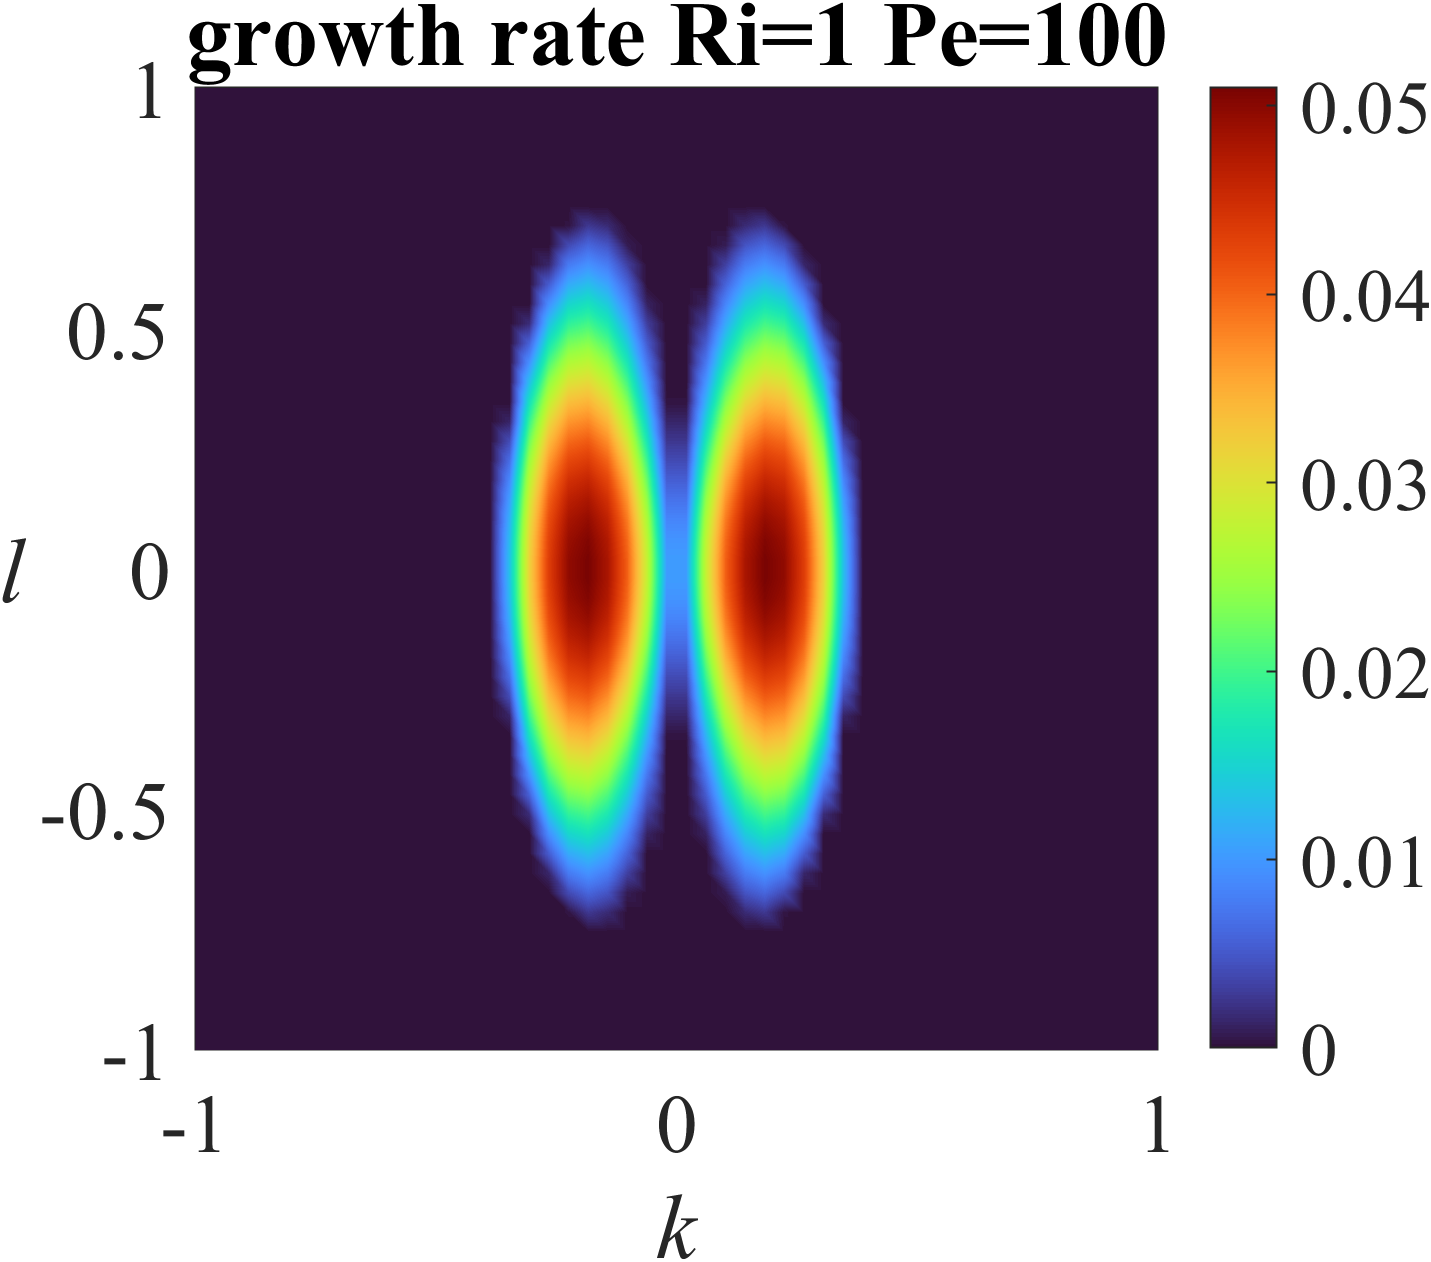
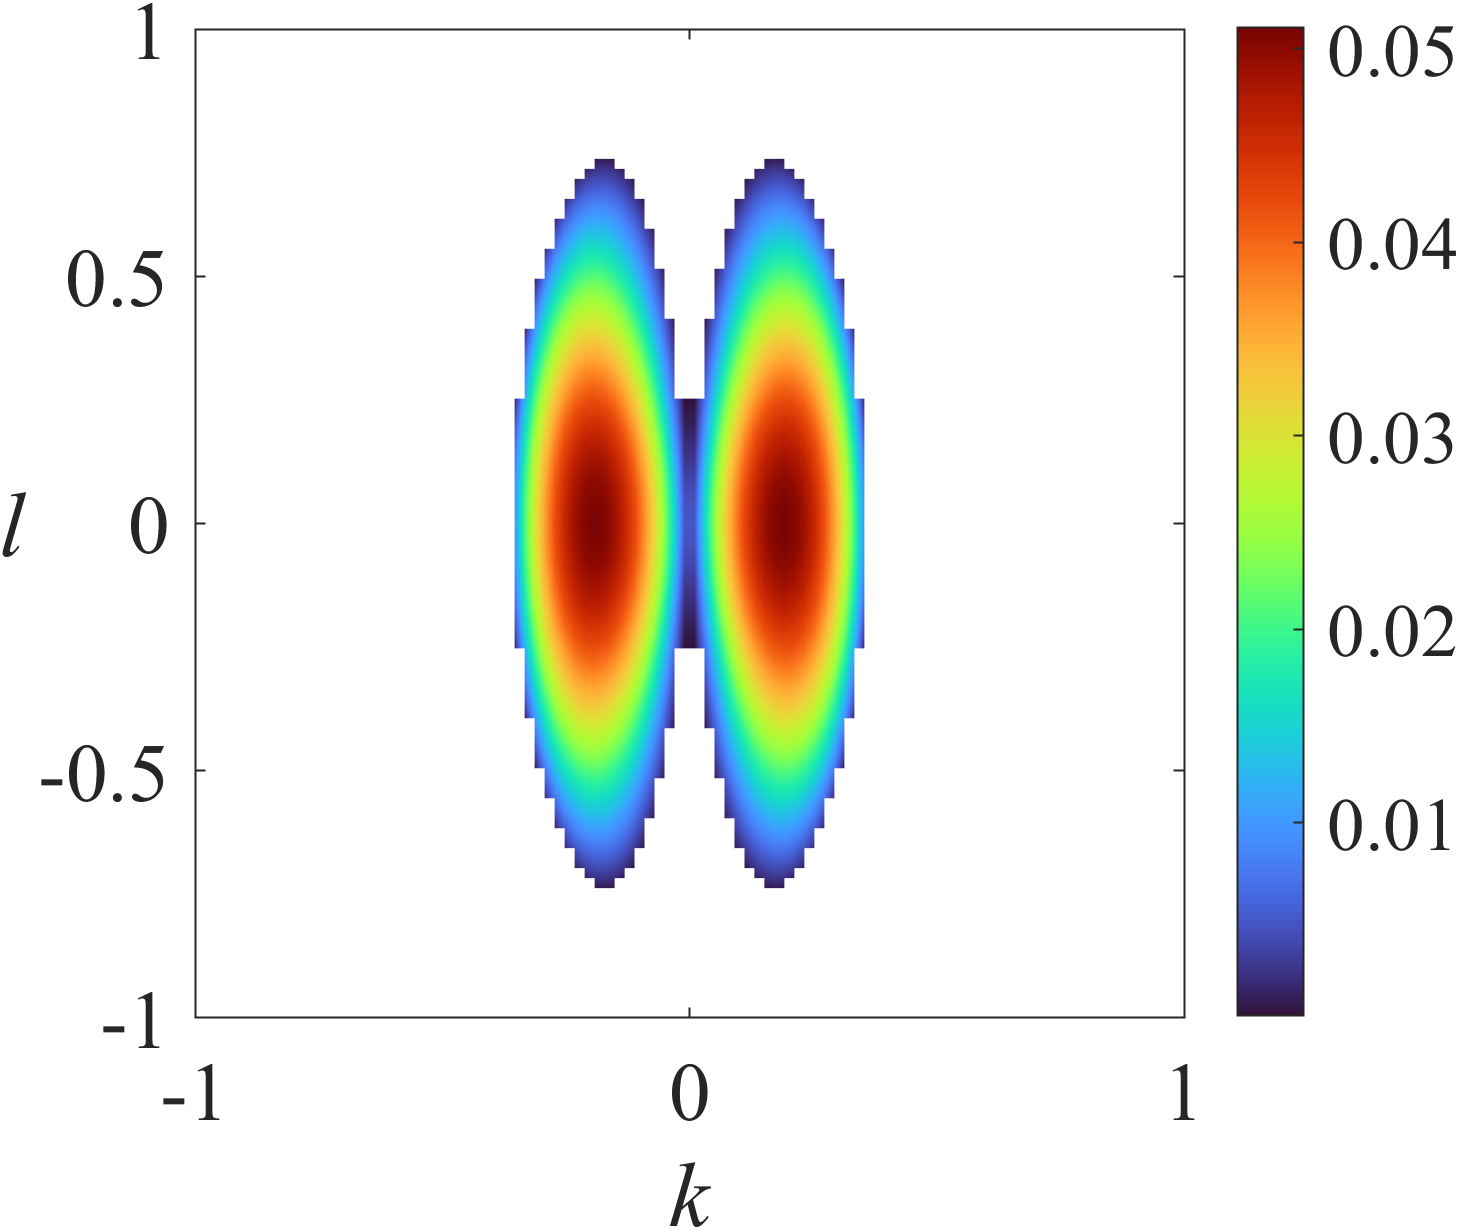
update parallel code and add vtk-format data

diff --git a/reproduce_refs/linear_stability_analysis/growth_rate_Ri1_Pe10000.m b/reproduce_refs/linear_stability_analysis/growth_rate_Ri1_Pe10000.m
@@ -9,17 +9,14 @@ Pe = 1e4; % Peclet number
 Rp = 2.; % density ratio
 tau = 0.01; % diffusivity ratio
 Pr = 10.;
-k_list=linspace(-4,4,50);
-l_list=linspace(-4,4,50);
-N = 30; %size=2N+1
+filename = ['./growth_rate_Ri=' num2str(Ri),'_Pe=' num2str(Pe)];
+k_list=linspace(-4,4,100)';
+l_list=linspace(-4,4,100)';
+N = 40; %size=2N+1
 
 GR = growthrate_Radko2016(Ri,Pe,Rp,Pr,tau,k_list,l_list,N);
-GR(find(GR<0))=0;
-%%%%%%%%%%%%%%%%%%%%%%%%%%%%%%%%%%
-% [X,Z] = meshgrid(k_list,l_list);
-% [Xq,Zq] = meshgrid(-0.5:0.01:0.5);
-% interpGR = interp2(X,Z,GR,Xq,Zq,'cubic');
-%%%%%%%%%%%%%%%%%%%%%%%%%%%%%%%%%%
+WriteToVTK(GR, [filename '.vtk']);
+GR(find(GR<0))=NaN;
 % plot growth rate for each case
 f = figure;
 pcolor(k_list,l_list,transpose(GR));
@@ -28,10 +25,7 @@ shading interp;
 colormap(turbo);
 colorbar;
 pbaspect([1 1 1])
-filename = ['./growth_rate_Ri=' num2str(Ri),'_Pe=' num2str(Pe)];
-title(['growth rate Ri=' num2str(Ri),' Pe=' num2str(Pe)])
+% title(['growth rate Ri=' num2str(Ri),' Pe=' num2str(Pe)])
 xlabel('{\it{k}}')
 ylabel('{\it{l}}',"Rotation",0)
 savefigure(gca,[filename '.png']);
-
-% WriteToVTK(GR, [filename '.vtk']);

diff --git a/reproduce_refs/linear_stability_analysis/growth_rate_Ri1_Pe100.m b/reproduce_refs/linear_stability_analysis/growth_rate_Ri1_Pe100.m
@@ -9,19 +9,14 @@ Pe = 1e2; % Peclet number
 Rp = 2.; % density ratio
 tau = 0.01; % diffusivity ratio
 Pr = 10.;
-
-k_list=linspace(-1,1,50);
-l_list=linspace(-1,1,50);
-
-N = 30; %size=2N+1
+filename = ['./growth_rate_Ri=' num2str(Ri),'_Pe=' num2str(Pe)];
+k_list=linspace(-1,1,100)';
+l_list=linspace(-1,1,100)';
+N = 40; %size=2N+1
 
 GR = growthrate_Radko2016(Ri,Pe,Rp,Pr,tau,k_list,l_list,N);
+WriteToVTK(GR, [filename '.vtk']);
 GR(find(GR<0))=NaN;
-%%%%%%%%%%%%%%%%%%%%%%%%%%%%%%%%%%
-% [X,Z] = meshgrid(k_list,l_list);
-% [Xq,Zq] = meshgrid(-0.5:0.01:0.5);
-% interpGR = interp2(X,Z,GR,Xq,Zq,'cubic');
-%%%%%%%%%%%%%%%%%%%%%%%%%%%%%%%%%%
 % plot growth rate for each case
 f = figure;
 pcolor(k_list,l_list,transpose(GR));
@@ -30,10 +25,8 @@ shading interp;
 colormap(turbo);
 colorbar;
 pbaspect([1 1 1])
-filename = ['./growth_rate_Ri=' num2str(Ri),'_Pe=' num2str(Pe)];
-title(['growth rate Ri=' num2str(Ri),' Pe=' num2str(Pe)])
+
+% title(['growth rate Ri=' num2str(Ri),' Pe=' num2str(Pe)])
 xlabel('{\it{k}}')
 ylabel('{\it{l}}',"Rotation",0)
 savefigure(gca,[filename '.png']);
-
-% WriteToVTK(GR, [filename '.vtk']);

diff --git a/reproduce_refs/linear_stability_analysis/amplifying_mode.m b/reproduce_refs/linear_stability_analysis/amplifying_mode.m
@@ -15,27 +15,27 @@ N = 100;%size = 2N+1
 
 [eig_vec,eig_val] = eig_Radko2016(Ri,Pe,Rp,Pr,tau,kx,ky,N);
 
-eig_val(find(real(eig_val)>10^12))=-Inf;
+eig_val(find(real(eig_val)>10^5))=-Inf;
 
 % writematrix(eig_vec,'eig_vec_tab.txt','Delimiter','tab')
 % writematrix(eig_val,'eig_val_tab.txt','Delimiter','tab')
 % fprintf('size of eig_vec is %s\n', mat2str(size(eig_vec)));
 
-[maxreal,maxindex] = max(real(diag(eig_val)))
+[maxreal,maxindex] = max(real(diag(eig_val)));
 
 varnum = 6; % number of variables [u,v,w,p,T,S]
 
-
-x=linspace(0,2*pi/kx,101); % wavelength = 2*pi/kx
-z=linspace(0,1,101);
+nSize = 2*N+1;
+x=linspace(0,2*pi/kx,nSize); % wavelength = 2*pi/kx
+z=linspace(0,1,nSize);
 
 % create an array to store values of temperature
 T = zeros(length(x),length(z));
 S = zeros(length(x),length(z));
 u = zeros(length(x),length(z));
 w = zeros(length(x),length(z));
-for x_index=1:length(x)
-    for z_index=1:length(z)
+parfor x_index=1:nSize
+    for z_index=1:nSize
         exp1 = exp(1i*kx*x(x_index) + 0);
         %%%%%%%%%%%%%%%%%%%%%%%%%%%%%%%%%%%%%%
         sumexp2 = 0;

diff --git a/reproduce_refs/linear_stability_analysis/growth_rate_Ri10_Pe100.m b/reproduce_refs/linear_stability_analysis/growth_rate_Ri10_Pe100.m
@@ -9,19 +9,14 @@ Pe = 1e2; % Peclet number
 Rp = 2.; % density ratio
 tau = 0.01; % diffusivity ratio
 Pr = 10.;
-
+filename = ['./growth_rate_Ri=' num2str(Ri),'_Pe=' num2str(Pe)];
 k_list=linspace(-0.5,0.5,100)';
 l_list=linspace(-0.5,0.5,100)';
-
 N = 40; %size=2N+1
 
 GR = growthrate_Radko2016(Ri,Pe,Rp,Pr,tau,k_list,l_list,N);
+WriteToVTK(GR, [filename '.vtk']);
 GR(find(GR<0))=NaN;
-%%%%%%%%%%%%%%%%%%%%%%%%%%%%%%%%%%
-% [X,Z] = meshgrid(k_list,l_list);
-% [Xq,Zq] = meshgrid(-0.5:0.01:0.5);
-% interpGR = interp2(X,Z,GR,Xq,Zq,'cubic');
-%%%%%%%%%%%%%%%%%%%%%%%%%%%%%%%%%%
 % plot growth rate for each case
 f = figure;
 pcolor(k_list,l_list,transpose(GR));
@@ -30,10 +25,7 @@ shading interp;
 colormap(turbo);
 colorbar;
 pbaspect([1 1 1])
-filename = ['./growth_rate_Ri=' num2str(Ri),'_Pe=' num2str(Pe)];
-title(['growth rate Ri=' num2str(Ri),' Pe=' num2str(Pe)])
+% title(['growth rate Ri=' num2str(Ri),' Pe=' num2str(Pe)])
 xlabel('{\it{k}}')
 ylabel('{\it{l}}',"Rotation",0)
 savefigure(gca,[filename '.png']);
-
-% WriteToVTK(GR, [filename '.vtk']);

diff --git a/reproduce_refs/linear_stability_analysis/growthrate_Radko2016.m b/reproduce_refs/linear_stability_analysis/growthrate_Radko2016.m
@@ -12,7 +12,6 @@ function GR = growthrate_Radko2016(Ri,Pe,Rp,Pr,tau,kx_list,ky_list,N)
             kx=kx_list(kx_index);
             for ky_index=1:sizeOfky
                ky=ky_list(ky_index);
-            
                % compute eigenvalues
                [eig_vec,eig_val] = eig_Radko2016(Ri,Pe,Rp,Pr,tau,kx,ky,N);
                eig_val(find(real(eig_val)>10^5))=-Inf;
@@ -26,7 +25,6 @@ function GR = growthrate_Radko2016(Ri,Pe,Rp,Pr,tau,kx_list,ky_list,N)
             kx=kx_list(kx_index);
             for ky_index=1:sizeOfky
                ky=ky_list(ky_index);
-            
                % compute eigenvalues
                [eig_vec,eig_val] = eig_Radko2016(Ri,Pe,Rp,Pr,tau,kx,ky,N);
                eig_val(find(real(eig_val)>10^5))=-Inf;
@@ -35,5 +33,4 @@ function GR = growthrate_Radko2016(Ri,Pe,Rp,Pr,tau,kx_list,ky_list,N)
             end
         end
     end
-    
 end
